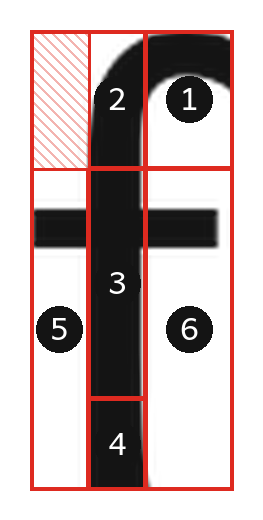
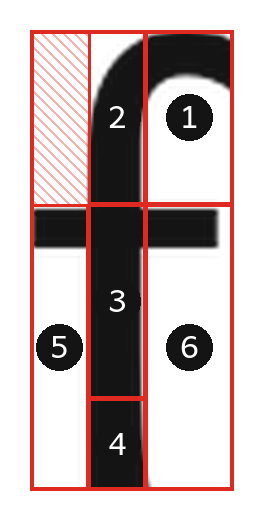
f: move top row line from y 0.30 to y 0.38 (#188)
The row line between the hook/stem-top zones (1, 2) and the zones
below (3, 5, 6) sat below the crossbar's top edge (0.39), so the pen
crossed it before reaching the bar. Moved to 0.38, just above the bar.
Only that boundary changed — zone numbers, strokes, x values, and
start rectangles are untouched.

Updated the approved JSON spec, re-rendered png/f.png and the contact
sheet, and updated the two registry tests that pinned the old 0.30
value.

python3 scripts/glyph_sections.py f --check-only passes for both the
registry and the approved spec. flutter test: 719 passed, 0 failed.

diff --git a/lib/models/letter_formation_registry.dart b/lib/models/letter_formation_registry.dart
@@ -1459,7 +1459,7 @@ final Map<String, LetterFormationData> letterFormationRegistry = {
               minX: 0.57,
               maxX: 1,
               minY: 0,
-              maxY: 0.3,
+              maxY: 0.38,
             ),
           ),
           WaypointSection(
@@ -1468,7 +1468,7 @@ final Map<String, LetterFormationData> letterFormationRegistry = {
               minX: 0.29,
               maxX: 0.57,
               minY: 0,
-              maxY: 0.3,
+              maxY: 0.38,
             ),
           ),
           WaypointSection(
@@ -1476,7 +1476,7 @@ final Map<String, LetterFormationData> letterFormationRegistry = {
             rect: const StrokeStartRect(
               minX: 0.29,
               maxX: 0.57,
-              minY: 0.3,
+              minY: 0.38,
               maxY: 0.8,
             ),
           ),
@@ -1504,7 +1504,7 @@ final Map<String, LetterFormationData> letterFormationRegistry = {
             rect: const StrokeStartRect(
               minX: 0,
               maxX: 0.29,
-              minY: 0.3,
+              minY: 0.38,
               maxY: 1,
             ),
           ),
@@ -1513,7 +1513,7 @@ final Map<String, LetterFormationData> letterFormationRegistry = {
             rect: const StrokeStartRect(
               minX: 0.57,
               maxX: 1,
-              minY: 0.3,
+              minY: 0.38,
               maxY: 1,
             ),
           ),

diff --git a/test/letter_formation_registry_test.dart b/test/letter_formation_registry_test.dart
@@ -1403,7 +1403,7 @@ void main() {
             minX: 0.57,
             maxX: 1.00,
             minY: 0.00,
-            maxY: 0.30,
+            maxY: 0.38,
           ),
         ),
         WaypointSection(
@@ -1412,7 +1412,7 @@ void main() {
             minX: 0.29,
             maxX: 0.57,
             minY: 0.00,
-            maxY: 0.30,
+            maxY: 0.38,
           ),
         ),
         WaypointSection(
@@ -1420,7 +1420,7 @@ void main() {
           rect: const StrokeStartRect(
             minX: 0.29,
             maxX: 0.57,
-            minY: 0.30,
+            minY: 0.38,
             maxY: 0.80,
           ),
         ),
@@ -1453,7 +1453,7 @@ void main() {
           rect: const StrokeStartRect(
             minX: 0.00,
             maxX: 0.29,
-            minY: 0.30,
+            minY: 0.38,
             maxY: 1.00,
           ),
         ),
@@ -1462,7 +1462,7 @@ void main() {
           rect: const StrokeStartRect(
             minX: 0.57,
             maxX: 1.00,
-            minY: 0.30,
+            minY: 0.38,
             maxY: 1.00,
           ),
         ),
